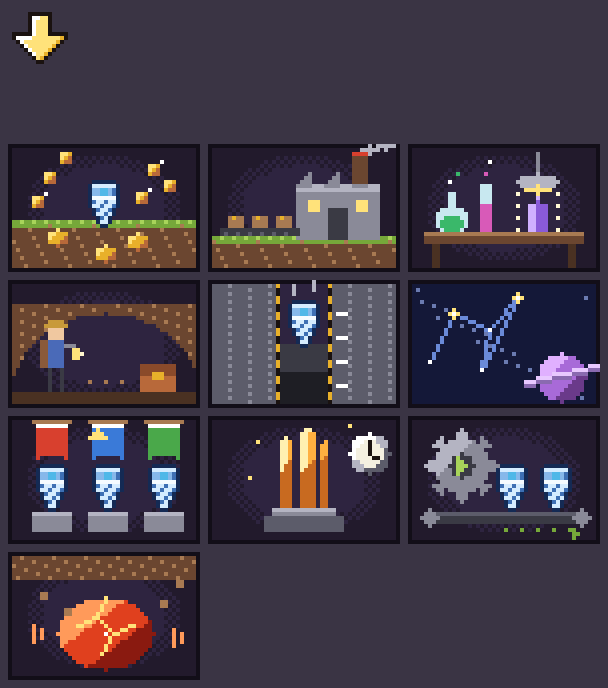
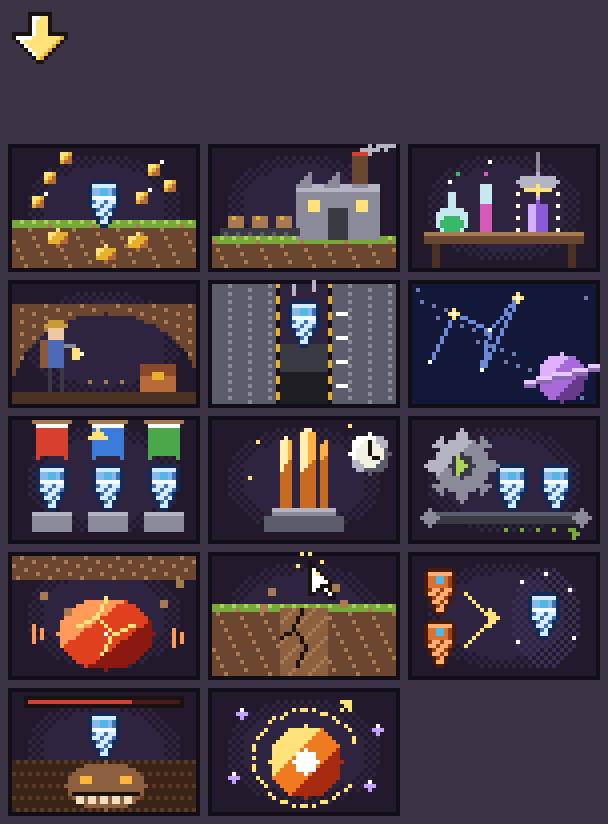
Explainer cards for tapping, merging, bosses and rebirth
guide_tap, guide_merge, guide_boss and guide_rebirth, 48x32 on the same dark
card as the system pictures. Branched from art/guide-art because master on
GitHub does not have draw_guide_art.lua yet; the other cards are unchanged.

diff --git a/TASKS.md b/TASKS.md
@@ -61,6 +61,7 @@ Claude B 在自己的分支上提交并推送，由 Claude A 合并和验证。C
 | 像素字体：换成开源中文像素字体，比如缝合像素体 | A | | | 待做 |
 | 美术 9：12 个 Boss 的招式特效 | B | B | | 待做 |
 | 美术 10：新手提示箭头和说明卡插图 | B | Claude B | `art/guide-art` | 待验证 |
+| 美术 10b：基础玩法说明卡插图（点击、合成、Boss、重铸） | B | Claude B | `art/guide-basics` | 待验证 |
 | 美术 11：12 层视差背景 | B | B | | 待做 |
 | 美术 12：星球和星座图 | B | B | | 待做 |
 
